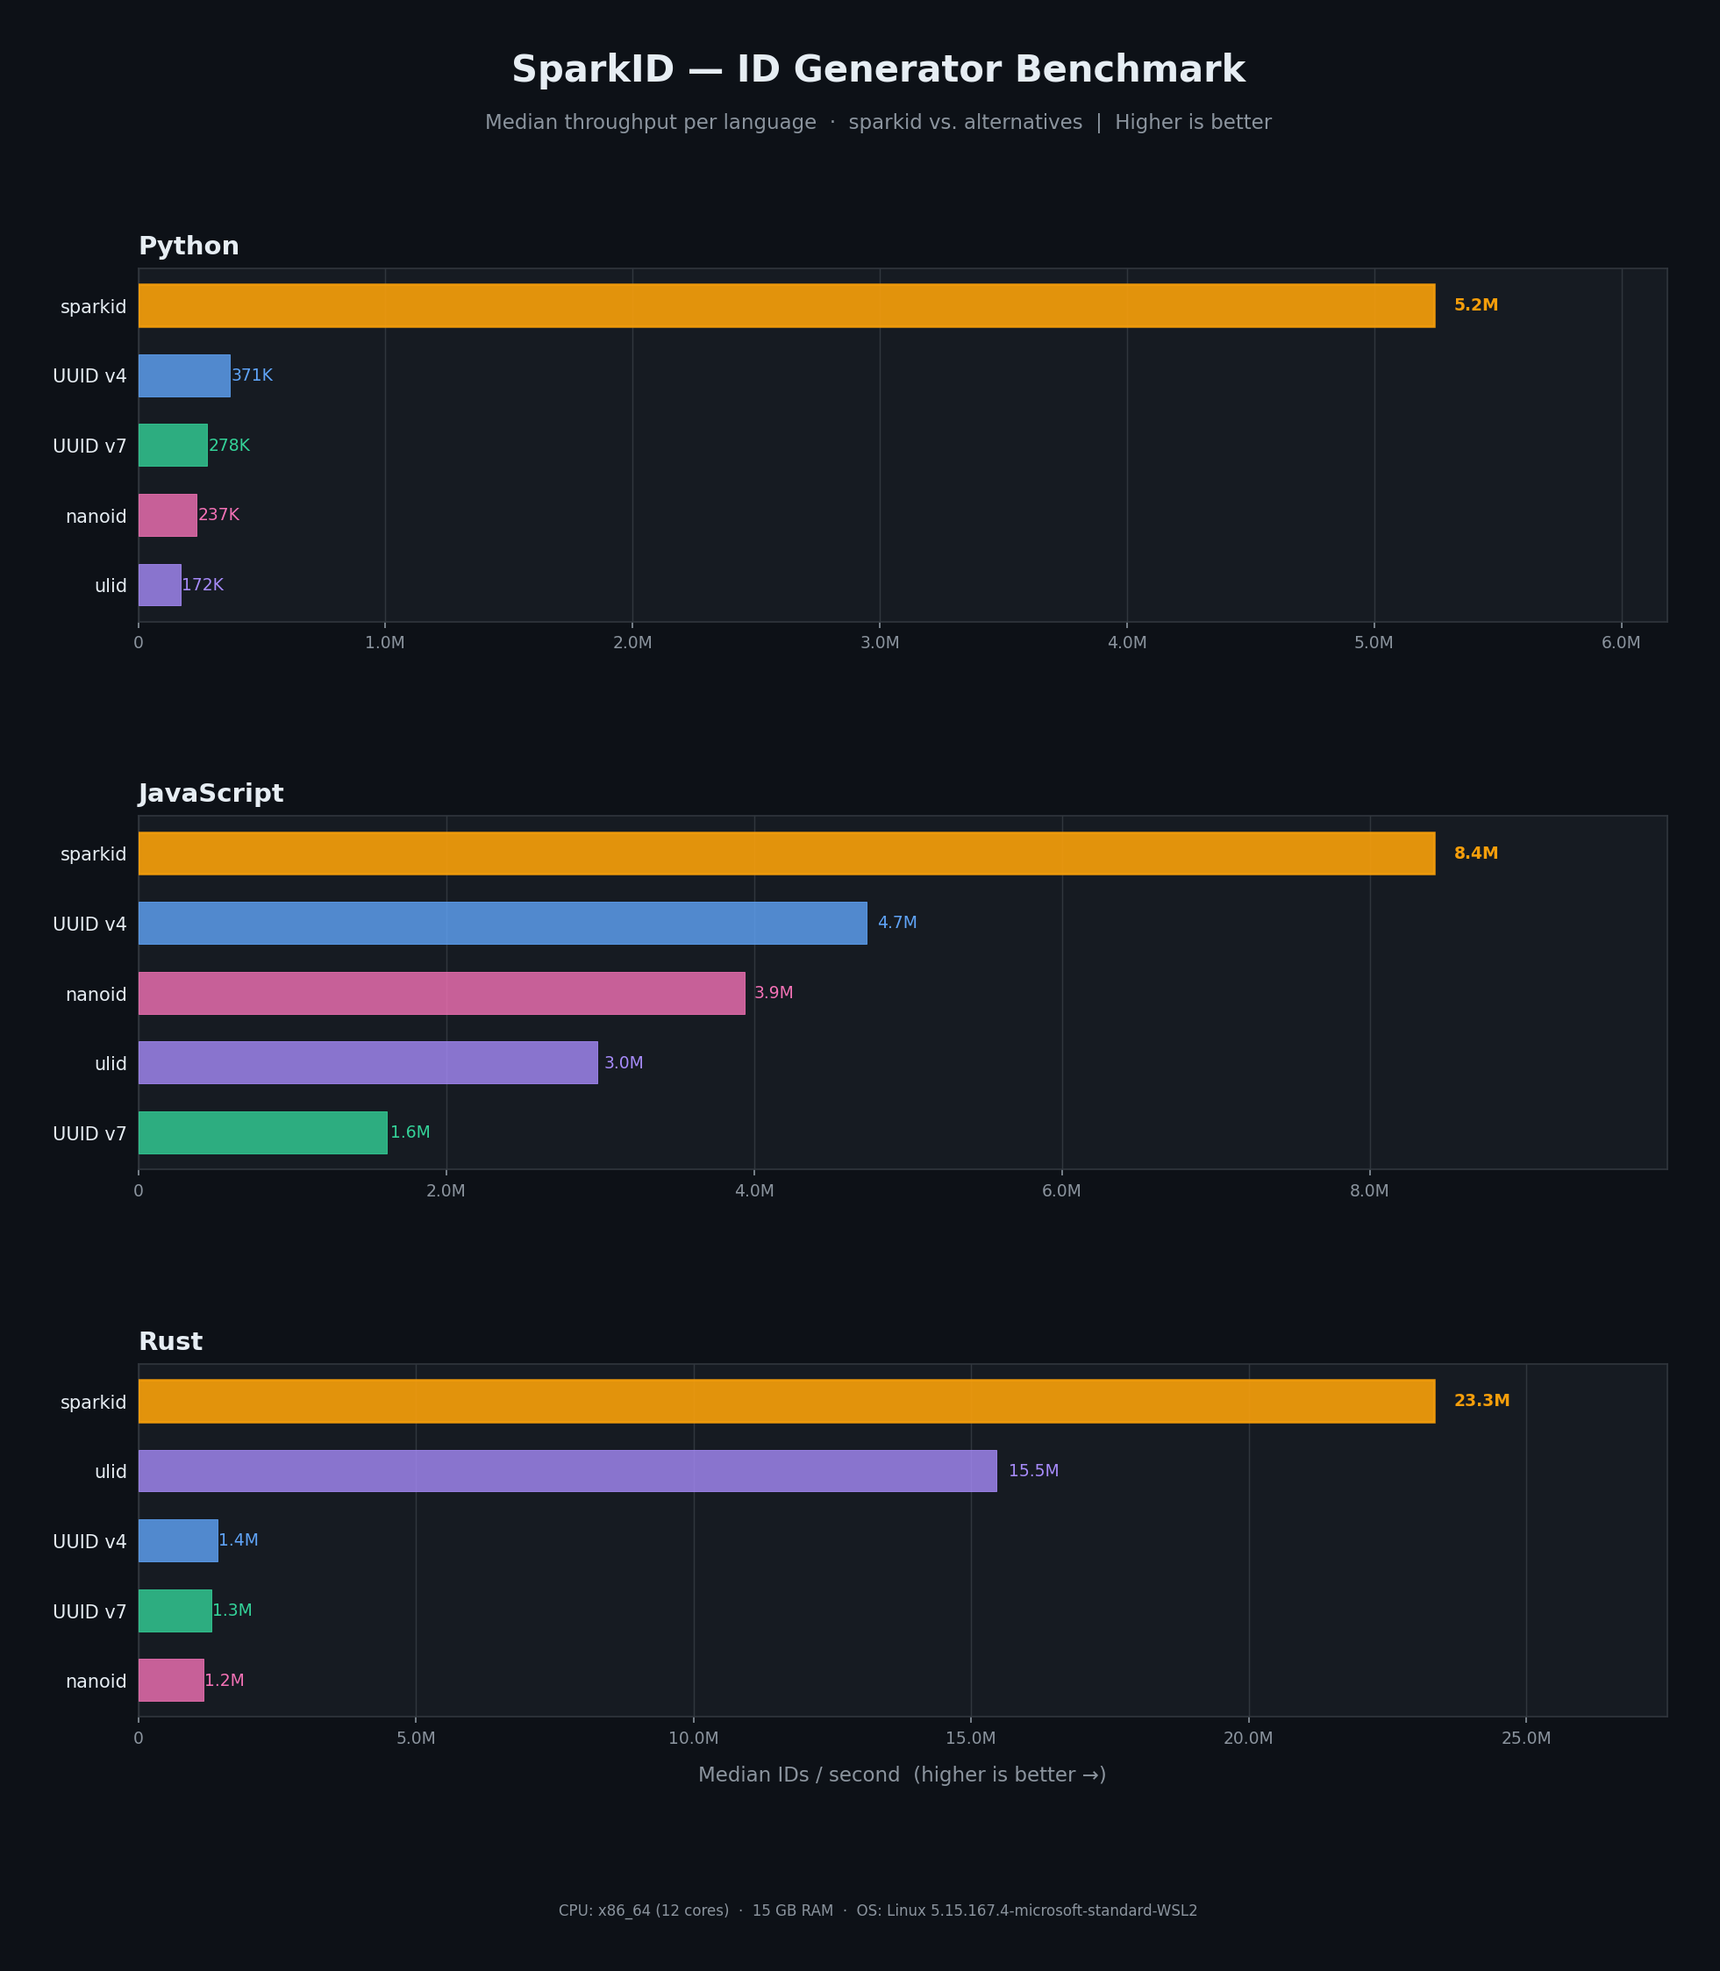
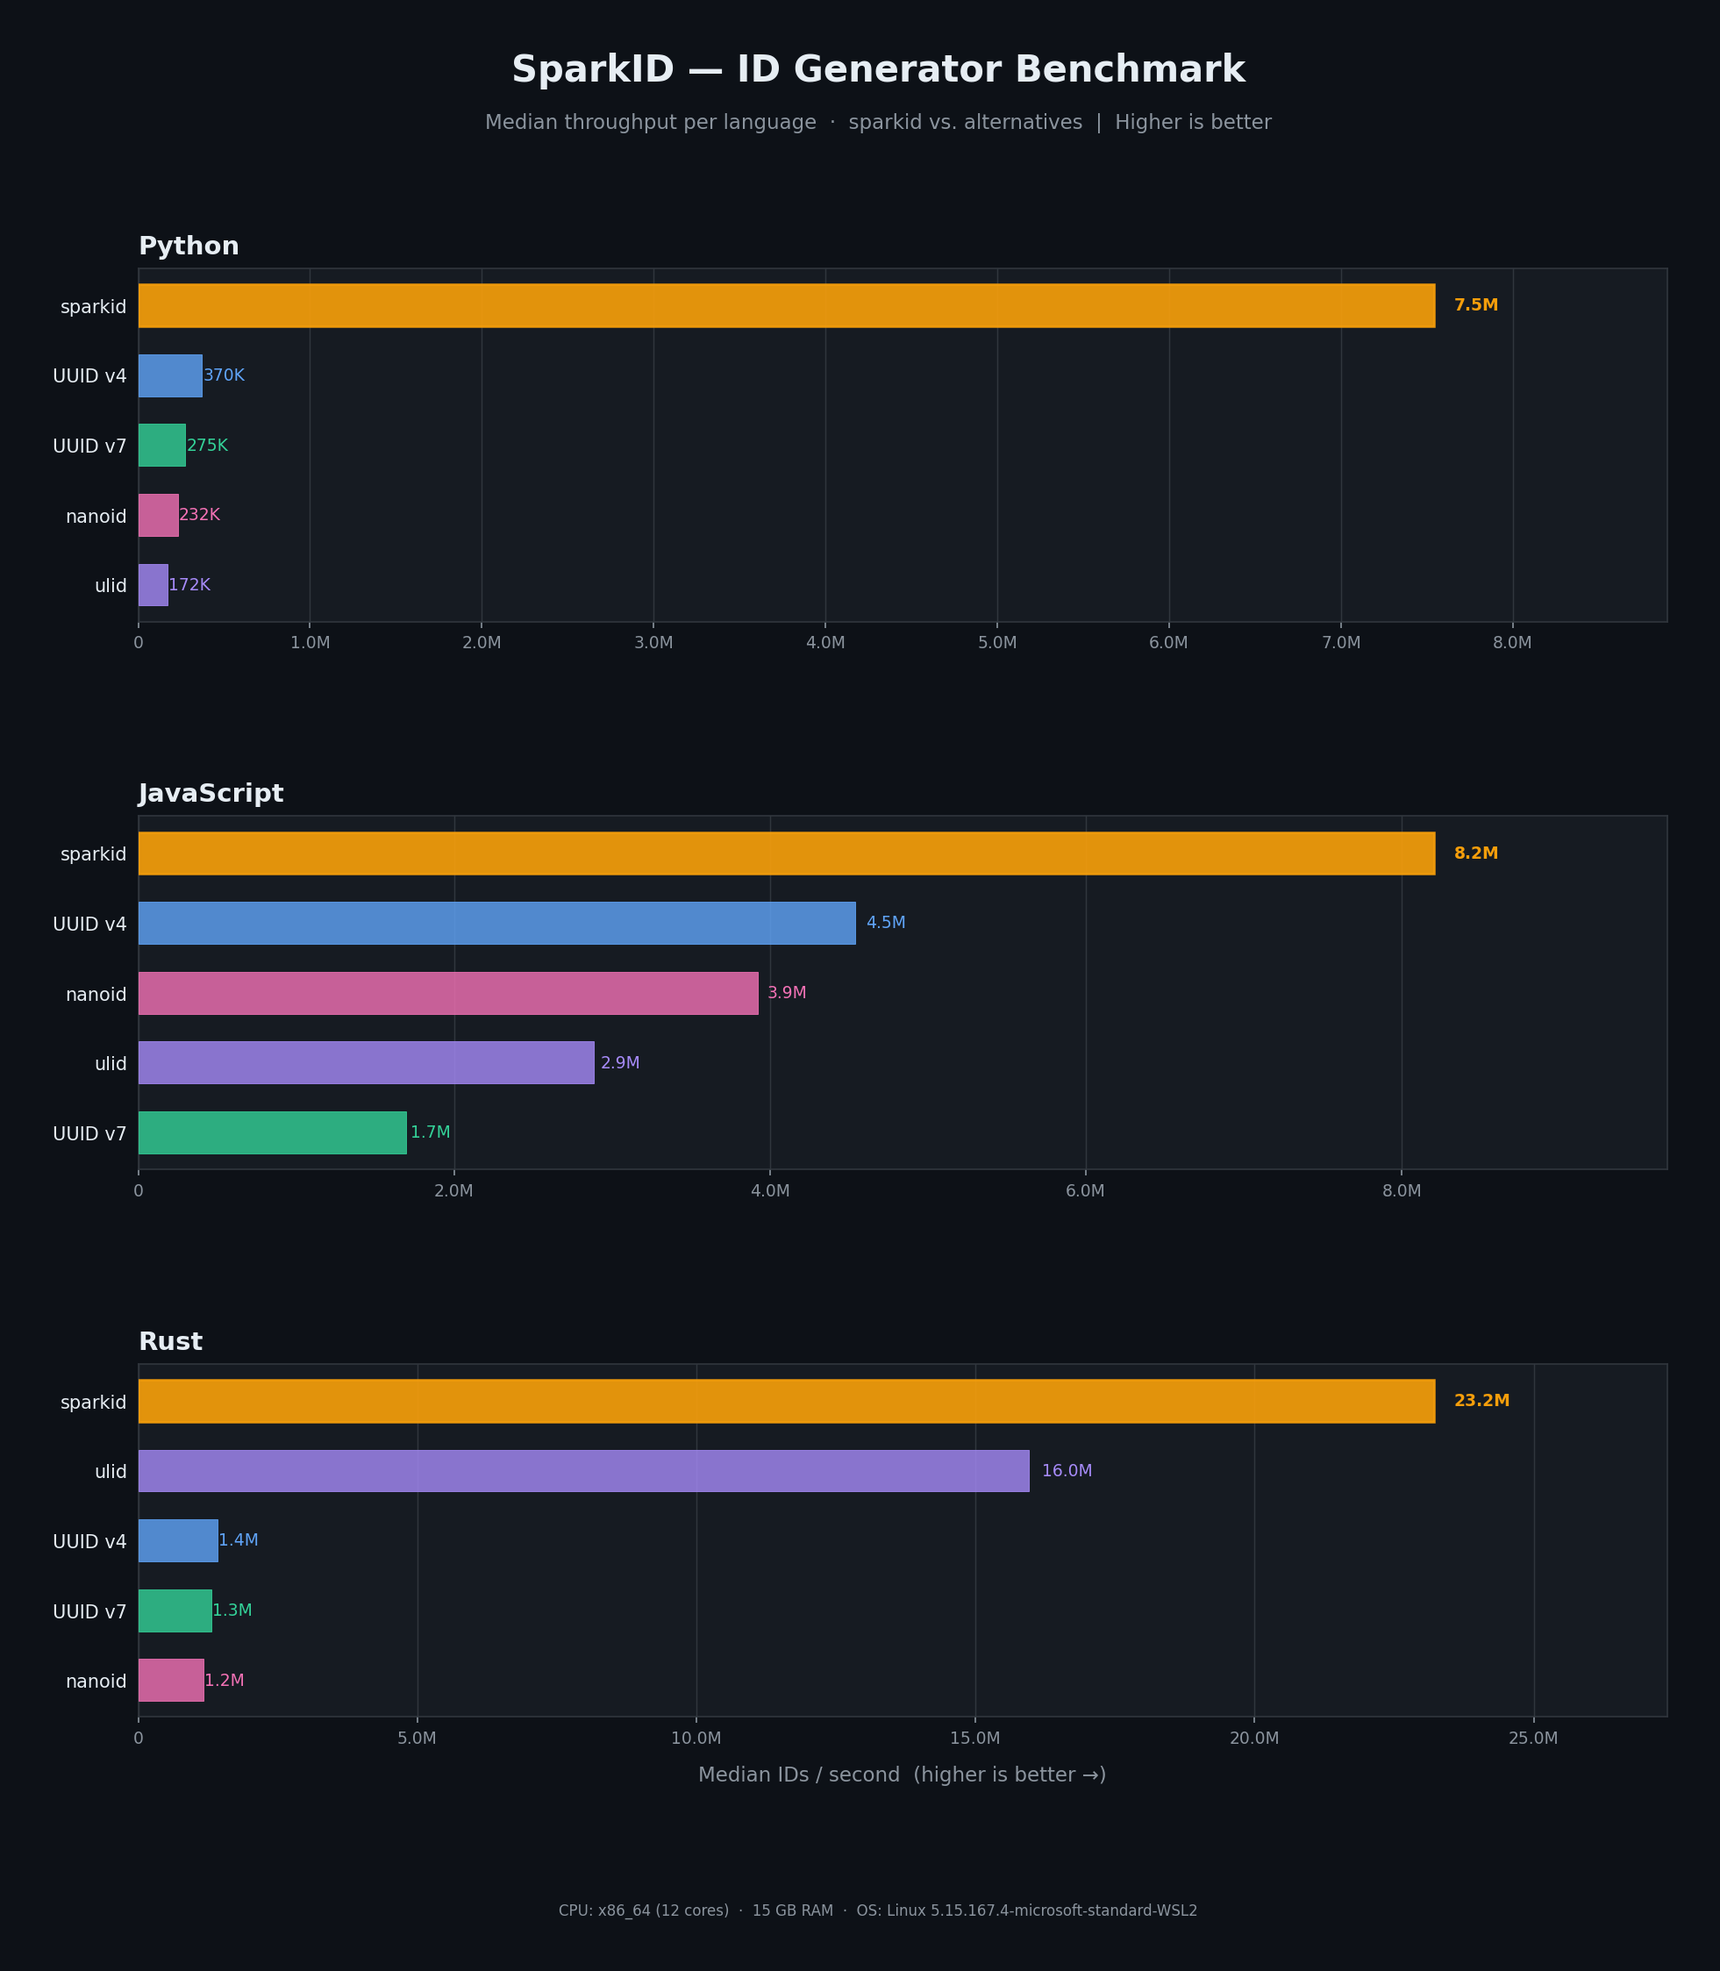
python: optimize PyO3 boundary + int-only API (#13)
* python: subclass PyO3 IdGenerator to eliminate wrapper overhead

Make Python IdGenerator subclass the PyO3-exported Rust IdGenerator
(via #[pyclass(subclass)]) instead of wrapping it in self._inner.

Previously, every gen() call paid for an extra Python frame, an attribute
lookup on _inner, and a bound-method dispatch before reaching Rust.
Now __call__ is defined directly on the Rust class, so gen() resolves
through the type's tp_call slot to the C function in one hop.

- Add subclass to #[pyclass] and __call__ to Rust PyIdGenerator
- Remove redundant generate() method (replaced by __call__)
- Python IdGenerator inherits from _RustIdGenerator, no _inner attr
- Fork-safety and generate_at datetime conversion remain in Python
- Update tests: gen._inner.reset() -> gen.reset()

* python: switch to int-only API, drop datetime wrappers

Breaking change: generate_at, generate_id_at, and extract_timestamp now
use int (epoch milliseconds) exclusively, matching the JS and Rust APIs.

- generate_at(timestamp_ms: int) — no longer accepts datetime
- generate_id_at(timestamp_ms: int) — no longer accepts datetime
- extract_timestamp(id) -> int — returns epoch ms, not datetime

All three functions are now direct re-exports from the Rust native
extension with zero Python wrapper overhead. The datetime import is
removed from __init__.py entirely.

Performance vs main (median ns/call):
  gen.generate_at(int):  240 -> 159  (-34%)
  generate_id_at(int):   223 -> 130  (-42%)
[…]

diff --git a/python/tests/test_sparkid.py b/python/tests/test_sparkid.py
@@ -4,7 +4,6 @@ import os
 import threading
 import time
 from collections import Counter
-from datetime import datetime, timezone
 
 import pytest
 
@@ -12,7 +11,7 @@ from sparkid import (
     IdGenerator,
     _after_fork_in_child,
     _all_generators,
-    extract_timestamp,
+    extract_timestamp_ms,
     from_bytes,
     generate_id,
     generate_id_at,
@@ -531,8 +530,8 @@ class TestForkSafety:
         for _ in range(100):
             gen()
 
-        # Reset via the internal Rust method
-        gen._inner.reset()
+        # Reset via the Rust method
+        gen.reset()
 
         # After reset, should produce valid IDs starting fresh
         id_ = gen()
@@ -543,7 +542,7 @@ class TestForkSafety:
         gen = IdGenerator()
         for _ in range(100):
             gen()
-        gen._inner.reset()
+        gen.reset()
         id_ = gen()
         assert len(id_) == 21
         assert set(id_) <= VALID_CHARS
@@ -630,14 +629,14 @@ class TestPublicAPI:
 
         assert hasattr(sparkid, "generate_id")
         assert hasattr(sparkid, "generate_id_at")
-        assert hasattr(sparkid, "extract_timestamp")
+        assert hasattr(sparkid, "extract_timestamp_ms")
         assert hasattr(sparkid, "to_bytes")
         assert hasattr(sparkid, "from_bytes")
         assert hasattr(sparkid, "IdGenerator")
         assert sparkid.__all__ == [
             "generate_id",
             "generate_id_at",
-            "extract_timestamp",
+            "extract_timestamp_ms",
             "to_bytes",
             "from_bytes",
             "IdGenerator",
@@ -645,7 +644,7 @@ class TestPublicAPI:
 
 
 # ---------------------------------------------------------------------------
-# extract_timestamp
+# extract_timestamp_ms
 # ---------------------------------------------------------------------------
 
 
@@ -654,8 +653,7 @@ class TestExtractTimestamp:
         before = time.time_ns() // 1_000_000
         id_ = generate_id()
         after = time.time_ns() // 1_000_000
-        ts = extract_timestamp(id_)
-        extracted_ms = int(ts.timestamp() * 1000)
+        extracted_ms = extract_timestamp_ms(id_)
         assert before - 5 <= extracted_ms <= after + 5
 
     def test_known_value(self):
@@ -668,29 +666,27 @@ class TestExtractTimestamp:
             chars.append(ALPHABET[r])
         encoded = "".join(reversed(chars))
         id_ = encoded + "1" * 13  # pad counter + random with '1's
-        ts = extract_timestamp(id_)
-        assert int(ts.timestamp() * 1000) == known_ms
-        assert ts.tzinfo is not None
+        assert extract_timestamp_ms(id_) == known_ms
 
     def test_wrong_length_raises(self):
         import pytest
 
         with pytest.raises(ValueError):
-            extract_timestamp("abc")
+            extract_timestamp_ms("abc")
         with pytest.raises(ValueError):
-            extract_timestamp("1" * 20)
+            extract_timestamp_ms("1" * 20)
         with pytest.raises(ValueError):
-            extract_timestamp("1" * 22)
+            extract_timestamp_ms("1" * 22)
 
     def test_invalid_chars_raises(self):
         import pytest
 
         with pytest.raises(ValueError):
-            extract_timestamp("0" + "1" * 20)
+            extract_timestamp_ms("0" + "1" * 20)
         with pytest.raises(ValueError):
-            extract_timestamp("O" + "1" * 20)
+            extract_timestamp_ms("O" + "1" * 20)
         with pytest.raises(ValueError):
-            extract_timestamp("I" + "1" * 20)
+            extract_timestamp_ms("I" + "1" * 20)
 
 
 # ---------------------------------------------------------------------------
@@ -842,14 +838,6 @@ class TestGenerateAt:
         decoded = _decode_timestamp(id_[:8])
         assert decoded == ts
 
-    def test_timestamp_encoding_datetime(self):
-        gen = IdGenerator()
-        dt = datetime(2024, 6, 15, 12, 0, 0, tzinfo=timezone.utc)
-        expected_ms = int(dt.timestamp() * 1000)
-        id_ = gen.generate_at(dt)
-        decoded = _decode_timestamp(id_[:8])
-        assert decoded == expected_ms
-
     def test_monotonicity_same_ms(self):
         gen = IdGenerator()
         ts = int(time.time() * 1000)
@@ -871,20 +859,6 @@ class TestGenerateAt:
         id_past = gen.generate_at(ts)  # earlier timestamp
         assert id_past > id_future  # still monotonically increasing
 
-    def test_datetime_timezone_aware(self):
-        gen = IdGenerator()
-        dt = datetime(2024, 1, 1, 0, 0, 0, tzinfo=timezone.utc)
-        id_ = gen.generate_at(dt)
-        assert len(id_) == 21
-        decoded_ms = _decode_timestamp(id_[:8])
-        assert decoded_ms == int(dt.timestamp() * 1000)
-
-    def test_datetime_naive_raises_valueerror(self):
-        gen = IdGenerator()
-        dt = datetime(2024, 1, 1, 0, 0, 0)  # naive
-        with pytest.raises(ValueError, match="timezone-aware"):
-            gen.generate_at(dt)
-
     def test_int_input_works(self):
         gen = IdGenerator()
         ts = 1_700_000_000_000
@@ -892,23 +866,6 @@ class TestGenerateAt:
         assert len(id_) == 21
         decoded = _decode_timestamp(id_[:8])
         assert decoded == ts
-
-    def test_bool_accepted_as_int(self):
-        gen = IdGenerator()
-        id_true = gen.generate_at(True)
-        id_false = gen.generate_at(False)
-        assert len(id_true) == 21
-        assert len(id_false) == 21
-
-    def test_float_raises_typeerror(self):
-        gen = IdGenerator()
-        with pytest.raises(TypeError):
-            gen.generate_at(1.5)
-
-    def test_str_raises_typeerror(self):
-        gen = IdGenerator()
-        with pytest.raises(TypeError):
-            gen.generate_at("123")
 
     def test_negative_int_raises_valueerror(self):
         gen = IdGenerator()

diff --git a/python/src/sparkid/__init__.py b/python/src/sparkid/__init__.py
@@ -2,14 +2,13 @@
 
 import os
 import weakref
-from datetime import datetime, timezone
 
 from sparkid._native import (
     IdGenerator as _RustIdGenerator,
-    extract_timestamp_ms as _extract_timestamp_ms,
+    extract_timestamp_ms,
     from_bytes,
     generate_id,
-    generate_id_at as _generate_id_at_ms,
+    generate_id_at,
     reset_thread_local as _reset_thread_local,
     to_bytes,
 )
@@ -17,7 +16,7 @@ from sparkid._native import (
 # Track all live generators for fork-safety reset.
 _all_generators: weakref.WeakSet["IdGenerator"] = weakref.WeakSet()
 
-class IdGenerator:
+class IdGenerator(_RustIdGenerator):
     """Generates 21-char, Base58, time-sortable, collision-resistant unique IDs.
 
     Each ID is composed of three parts:
@@ -36,11 +35,6 @@ class IdGenerator:
     The random tail is freshly generated for every ID, making individual IDs
     unpredictable even when the counter value can be inferred.
 
-    On the hot path (same millisecond, no carry), the counter tail is a single
-    string char bumped via a successor lookup, and the random tail is decoded
-    from the pre-sampled byte buffer. The return is a 3-part string concat:
-    prefix_plus_counter_head (13 chars) + counter_tail (1 char) + random (7 chars).
-
     Properties:
       - 21 characters, fixed length
       - Lexicographically sortable by creation time
@@ -56,104 +50,18 @@ class IdGenerator:
     monotonic ordering, protect a single shared instance with a lock.
     """
 
-    __slots__ = ("__weakref__", "_inner")
+    __slots__ = ("__weakref__",)
 
     def __init__(self) -> None:
-        self._inner = _RustIdGenerator()
+        super().__init__()
         _all_generators.add(self)
-
-    def generate_at(self, timestamp: "datetime | int") -> str:
-        """Generate an ID using a caller-supplied timestamp.
-
-        Advances the generator's internal state using the given timestamp. If
-        the supplied timestamp is earlier than the last-seen timestamp, the
-        generator treats it as a clock regression — it preserves monotonicity
-        by incrementing the counter instead of encoding the earlier timestamp.
-
-        Args:
-            timestamp: Either a timezone-aware ``datetime`` or an ``int``
-                representing epoch milliseconds.
-
-        Returns:
-            A 21-character Base58 sparkid string.
-
-        Raises:
-            TypeError: If *timestamp* is not a ``datetime`` or ``int``.
-            ValueError: If a ``datetime`` is naive (no tzinfo).
-        """
-        if isinstance(timestamp, datetime):
-            if timestamp.tzinfo is None:
-                raise ValueError("timestamp must be timezone-aware")
-            timestamp_ms = int(timestamp.timestamp() * 1000)
-        elif isinstance(timestamp, int):
-            timestamp_ms = timestamp
-        else:
-            raise TypeError(
-                f"timestamp must be a datetime or int,"
-                f" got {type(timestamp).__name__}"
-            )
-        return self._inner.generate_at(timestamp_ms)
-
-    def __call__(self) -> str:
-        return self._inner.generate()
-
-
-def generate_id_at(timestamp: "datetime | int") -> str:
-    """Generate a unique, time-sortable, 21-char Base58 ID at a given timestamp.
-
-    Thread-safe via threading.local. IDs are strictly monotonically increasing
-    within each thread; across threads they are unique but unordered.
-
-    Args:
-        timestamp: Either a timezone-aware ``datetime`` or an ``int``
-            representing epoch milliseconds.
-
-    Returns:
-        A 21-character Base58 sparkid string.
-
-    Raises:
-        TypeError: If *timestamp* is not a ``datetime`` or ``int``.
-        ValueError: If a ``datetime`` is naive (no tzinfo), or the resulting
-            epoch milliseconds is negative or exceeds MAX_TIMESTAMP.
-    """
-    if isinstance(timestamp, datetime):
-        if timestamp.tzinfo is None:
-            raise ValueError("timestamp must be timezone-aware")
-        timestamp_ms = int(timestamp.timestamp() * 1000)
-    elif isinstance(timestamp, int):
-        timestamp_ms = timestamp
-    else:
-        raise TypeError(
-            f"timestamp must be a datetime or int,"
-            f" got {type(timestamp).__name__}"
-        )
-    return _generate_id_at_ms(timestamp_ms)
-
-
-def extract_timestamp(id: str) -> datetime:
-    """Extract the embedded timestamp from a sparkid as a UTC datetime.
-
-    Decodes the first 8 Base58 characters back to the original millisecond
-    timestamp and returns it as a timezone-aware ``datetime`` (UTC).
-
-    Args:
-        id: A 21-character Base58 sparkid string.
-
-    Returns:
-        A ``datetime`` corresponding to the embedded timestamp.
-
-    Raises:
-        ValueError: If *id* is not a valid 21-char Base58 string.
-    """
-    ms = _extract_timestamp_ms(id)
-    return datetime.fromtimestamp(ms / 1000, tz=timezone.utc)
 
 
 def _after_fork_in_child() -> None:
     """Reset all generator state after fork to prevent duplicate IDs."""
     _reset_thread_local()
     for gen in _all_generators:
-        gen._inner.reset()
+        gen.reset()
 
 
 if hasattr(os, "register_at_fork"):
@@ -163,7 +71,7 @@ if hasattr(os, "register_at_fork"):
 __all__ = [
     "generate_id",
     "generate_id_at",
-    "extract_timestamp",
+    "extract_timestamp_ms",
     "to_bytes",
     "from_bytes",
     "IdGenerator",

diff --git a/python/rust/lib.rs b/python/rust/lib.rs
@@ -53,7 +53,7 @@ fn validate_timestamp(timestamp_ms: i64) -> PyResult<u64> {
     Ok(timestamp_ms as u64)
 }
 
-#[pyclass(name = "IdGenerator")]
+#[pyclass(name = "IdGenerator", subclass)]
 struct PyIdGenerator {
     inner: IdGenerator,
 }
@@ -67,7 +67,7 @@ impl PyIdGenerator {
         }
     }
 
-    fn generate<'py>(&mut self, py: Python<'py>) -> Bound<'py, PyString> {
+    fn __call__<'py>(&mut self, py: Python<'py>) -> Bound<'py, PyString> {
         let id = self.inner.next_id();
         sparkid_to_pystring(py, id)
     }

diff --git a/python/README.md b/python/README.md
@@ -26,12 +26,12 @@ id = generate_id()
 ### Extract timestamp
 
 ```python
-from sparkid import extract_timestamp
+from sparkid import generate_id, extract_timestamp_ms
 
 id = generate_id()
-dt = extract_timestamp(id)
-print(dt.isoformat())
-# => "2025-11-14T22:13:20+00:00"
+ms = extract_timestamp_ms(id)
+print(ms)
+# => 1731622400000
 ```
 
 ### Binary representation
